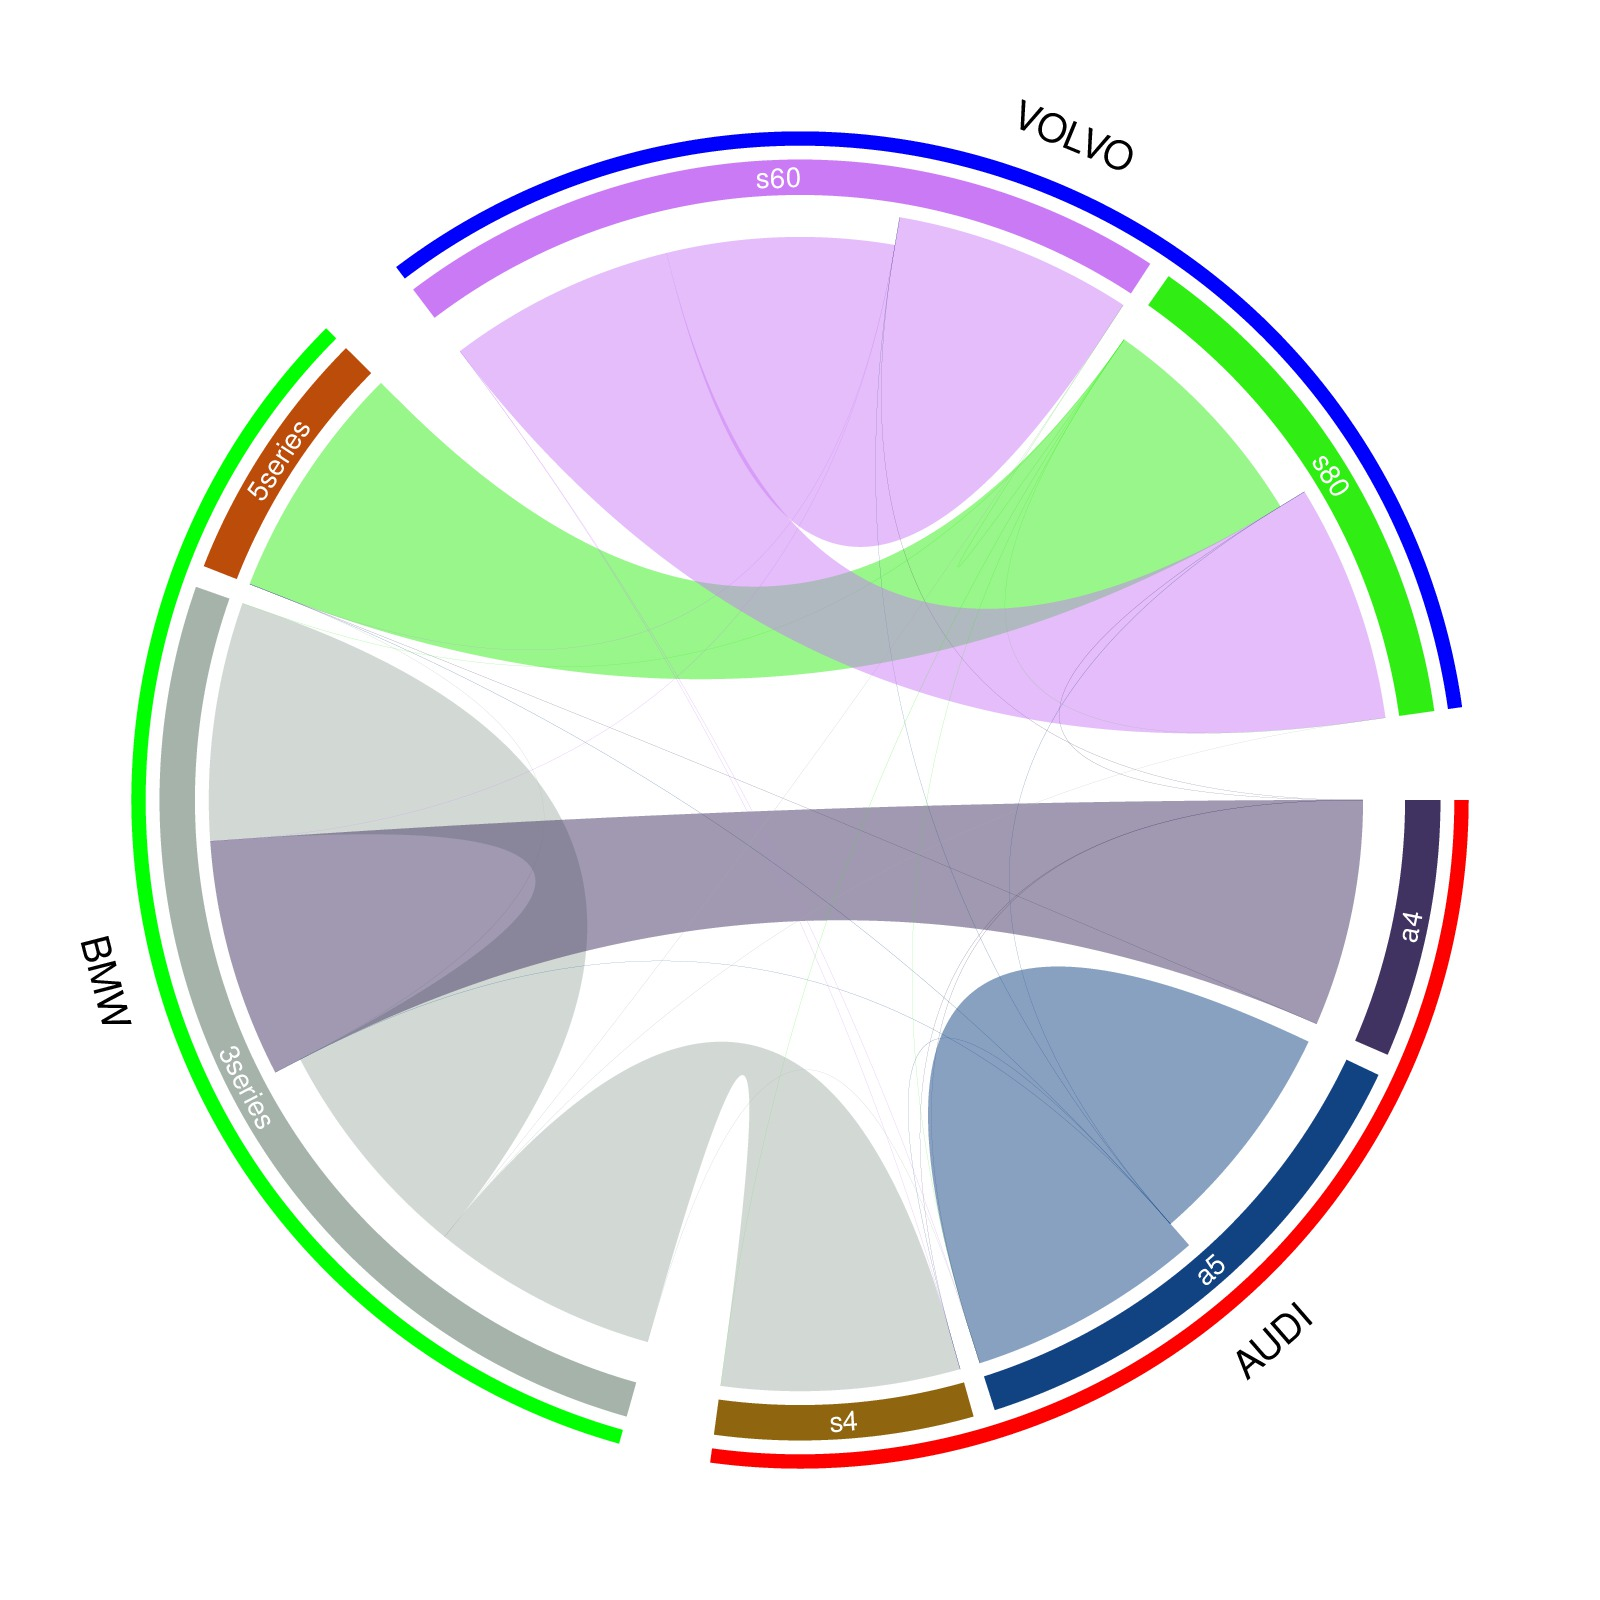
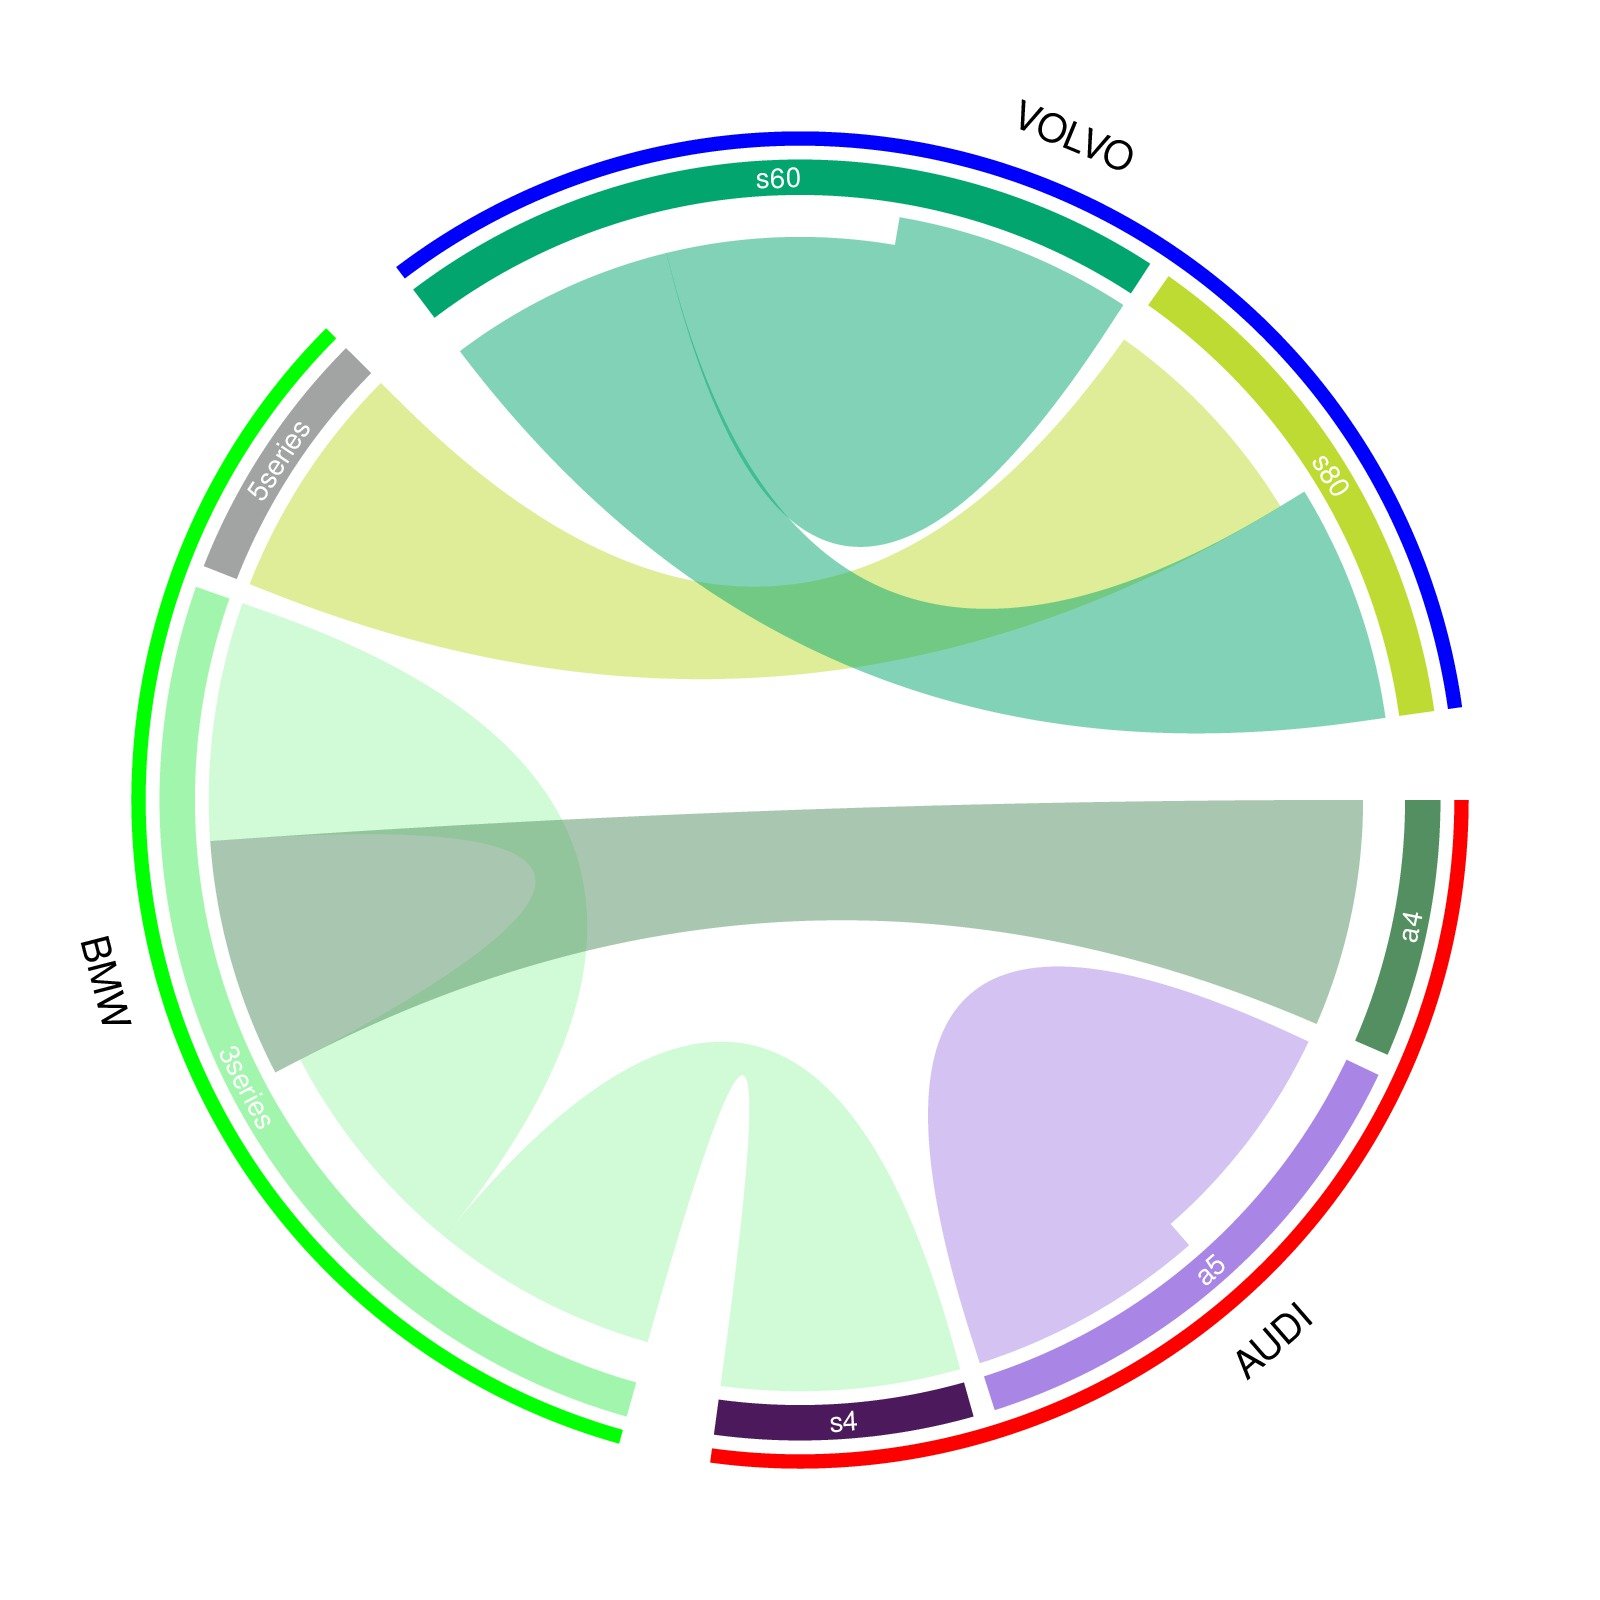
refreshed with new version of circlize

diff --git a/index.html b/index.html
@@ -17,13 +17,13 @@ img {
 <body>
 <h2>Examples of using <b>circlize</b> (version: 0.3.5)</h2>
 <p>Click on the figures to view source code. If you have fancy figures generated by <i>circlize</i>, you can send me (z.gu<span style='border:1px solid black;border-radius:4px;-moz-border-radius: 4px;-webkit-border-radius: 4px;font-family: Century Gothic;padding: 0px 2px;font-size: 0.8em;'>a</span>dkfz.de) the figures and code and I will put them here.</p>
-<table><tr><td><a href='example/bagua.html'><img src='example/bagua.small.jpg?1457991774330907'/></a></td><td><a href='example/barplot.html'><img src='example/barplot.small.jpg?1457991776654198'/></a></td><td><a href='example/bi_directional.html'><img src='example/bi_directional.small.jpg?1457991777380056'/></a></td><td><a href='example/chordDiagram_customize.html'><img src='example/chordDiagram_customize.small.jpg?1457991779919484'/></a></td></tr>
-<tr><td><a href='example/chordDiagram_directional.html'><img src='example/chordDiagram_directional.small.jpg?1457991781185590'/></a></td><td><a href='example/clock.html'><img src='example/clock.small.jpg?1457991783215157'/></a></td><td><a href='example/dartboard.html'><img src='example/dartboard.small.jpg?1457991784961392'/></a></td><td><a href='example/doodle.html'><img src='example/doodle.small.jpg?1457991786583006'/></a></td></tr>
-<tr><td><a href='example/gene_model.html'><img src='example/gene_model.small.jpg?1457991786962632'/></a></td><td><a href='example/genomic_compare.html'><img src='example/genomic_compare.small.jpg?1457991791997808'/></a></td><td><a href='example/genomic_general.html'><img src='example/genomic_general.small.jpg?1457991794403747'/></a></td><td><a href='example/genomic_heatmap.html'><img src='example/genomic_heatmap.small.jpg?1457991823815895'/></a></td></tr>
-<tr><td><a href='example/genomic_ideogram_customize.html'><img src='example/genomic_ideogram_customize.small.jpg?145799183887975'/></a></td><td><a href='example/genomic_link.html'><img src='example/genomic_link.small.jpg?1457991840555946'/></a></td><td><a href='example/genomic_posTrans_heatmap.html'><img src='example/genomic_posTrans_heatmap.small.jpg?1457991848567229'/></a></td><td><a href='example/genomic_posTrans_test.html'><img src='example/genomic_posTrans_test.small.jpg?1457991865767584'/></a></td></tr>
-<tr><td><a href='example/genomic_zoom_by.html'><img src='example/genomic_zoom_by.small.jpg?1457991874702993'/></a></td><td><a href='example/genomic_zoom_inside.html'><img src='example/genomic_zoom_inside.small.jpg?1457991884936413'/></a></td><td><a href='example/grouped_chordDiagram.html'><img src='example/grouped_chordDiagram.small.jpg?145799188811504'/></a></td><td><a href='example/intro-08-lines.html'><img src='example/intro-08-lines.small.jpg?1457991890741371'/></a></td></tr>
-<tr><td><a href='example/intro-09-text.html'><img src='example/intro-09-text.small.jpg?1457991892677824'/></a></td><td><a href='example/intro-11-axis.html'><img src='example/intro-11-axis.small.jpg?1457991893534840'/></a></td><td><a href='example/intro-14-hist.html'><img src='example/intro-14-hist.small.jpg?1457991895325345'/></a></td><td><a href='example/intro-16-combine.html'><img src='example/intro-16-combine.small.jpg?1457991901792242'/></a></td></tr>
-<tr><td><a href='example/movie.html'><img src='example/movie.small.jpg?1457991903367521'/></a></td><td><a href='example/otu.html'><img src='example/otu.small.jpg?145799190936668'/></a></td><td><a href='example/phylogenetic_tree.html'><img src='example/phylogenetic_tree.small.jpg?145799191436963'/></a></td><td><a href='example/pubmed_24194836.html'><img src='example/pubmed_24194836.small.jpg?1457991916778785'/></a></td></tr>
-<tr><td><a href='example/railfallplot.html'><img src='example/railfallplot.small.jpg?1457991957951442'/></a></td><td><a href='example/smooth.html'><img src='example/smooth.small.jpg?145799196631874'/></a></td><td><a href='example/solaris.html'><img src='example/solaris.small.jpg?1457991967346974'/></a></td><td><a href='example/wc2014.html'><img src='example/wc2014.small.jpg?1457991980610080'/></a></td></tr>
+<table><tr><td><a href='example/bagua.html'><img src='example/bagua.small.jpg?1457992904819877'/></a></td><td><a href='example/barplot.html'><img src='example/barplot.small.jpg?1457992904282337'/></a></td><td><a href='example/bi_directional.html'><img src='example/bi_directional.small.jpg?1457992904351887'/></a></td><td><a href='example/chordDiagram_customize.html'><img src='example/chordDiagram_customize.small.jpg?1457992904750373'/></a></td></tr>
+<tr><td><a href='example/chordDiagram_directional.html'><img src='example/chordDiagram_directional.small.jpg?1457992904321824'/></a></td><td><a href='example/clock.html'><img src='example/clock.small.jpg?1457992904784620'/></a></td><td><a href='example/dartboard.html'><img src='example/dartboard.small.jpg?1457992904705300'/></a></td><td><a href='example/doodle.html'><img src='example/doodle.small.jpg?1457992904933103'/></a></td></tr>
+<tr><td><a href='example/gene_model.html'><img src='example/gene_model.small.jpg?145799290452205'/></a></td><td><a href='example/genomic_compare.html'><img src='example/genomic_compare.small.jpg?1457992904136112'/></a></td><td><a href='example/genomic_general.html'><img src='example/genomic_general.small.jpg?145799290460679'/></a></td><td><a href='example/genomic_heatmap.html'><img src='example/genomic_heatmap.small.jpg?1457992904134183'/></a></td></tr>
+<tr><td><a href='example/genomic_ideogram_customize.html'><img src='example/genomic_ideogram_customize.small.jpg?1457992904681091'/></a></td><td><a href='example/genomic_link.html'><img src='example/genomic_link.small.jpg?1457992904244746'/></a></td><td><a href='example/genomic_posTrans_heatmap.html'><img src='example/genomic_posTrans_heatmap.small.jpg?1457992904610208'/></a></td><td><a href='example/genomic_posTrans_test.html'><img src='example/genomic_posTrans_test.small.jpg?1457992904520968'/></a></td></tr>
+<tr><td><a href='example/genomic_zoom_by.html'><img src='example/genomic_zoom_by.small.jpg?1457992904162926'/></a></td><td><a href='example/genomic_zoom_inside.html'><img src='example/genomic_zoom_inside.small.jpg?1457992904775502'/></a></td><td><a href='example/grouped_chordDiagram.html'><img src='example/grouped_chordDiagram.small.jpg?1457992904244434'/></a></td><td><a href='example/intro-08-lines.html'><img src='example/intro-08-lines.small.jpg?145799290659615'/></a></td></tr>
+<tr><td><a href='example/intro-09-text.html'><img src='example/intro-09-text.small.jpg?1457992906714683'/></a></td><td><a href='example/intro-11-axis.html'><img src='example/intro-11-axis.small.jpg?1457992906996193'/></a></td><td><a href='example/intro-14-hist.html'><img src='example/intro-14-hist.small.jpg?1457992906926962'/></a></td><td><a href='example/intro-16-combine.html'><img src='example/intro-16-combine.small.jpg?1457992906277194'/></a></td></tr>
+<tr><td><a href='example/movie.html'><img src='example/movie.small.jpg?1457992906687029'/></a></td><td><a href='example/otu.html'><img src='example/otu.small.jpg?1457992906628720'/></a></td><td><a href='example/phylogenetic_tree.html'><img src='example/phylogenetic_tree.small.jpg?1457992906302064'/></a></td><td><a href='example/pubmed_24194836.html'><img src='example/pubmed_24194836.small.jpg?145799290651137'/></a></td></tr>
+<tr><td><a href='example/railfallplot.html'><img src='example/railfallplot.small.jpg?1457992906717702'/></a></td><td><a href='example/smooth.html'><img src='example/smooth.small.jpg?1457992906293490'/></a></td><td><a href='example/solaris.html'><img src='example/solaris.small.jpg?1457992906565575'/></a></td><td><a href='example/wc2014.html'><img src='example/wc2014.small.jpg?1457992906211139'/></a></td></tr>
 </tr>
 </body></html>

diff --git a/example/doodle.html b/example/doodle.html
@@ -4,7 +4,7 @@
 <link rel='stylesheet' href='styles/github.css'>
 <script src='highlight.pack.js'></script>
 <script>hljs.initHighlightingOnLoad();</script>
-</head><body><p><img src='doodle.jpg' style='width:1000px;height:1000px'></p>
+</head><body><p><img src='doodle.jpg' style='width:1000px;height:1000px'></p><p><a href='doodle.pdf'>download PDF</a></p>
 <p id='comment'></p>
 <p id='code'><pre><code>
 library(circlize)
